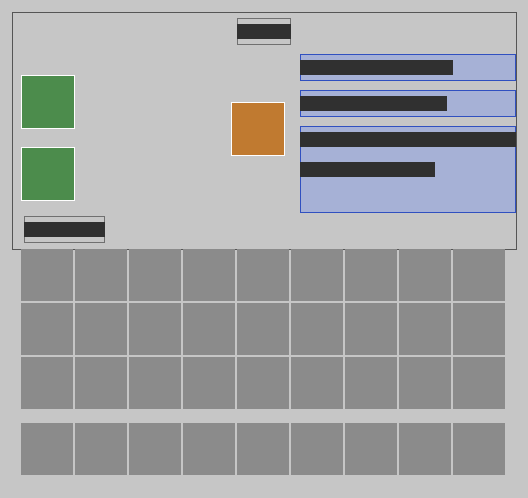
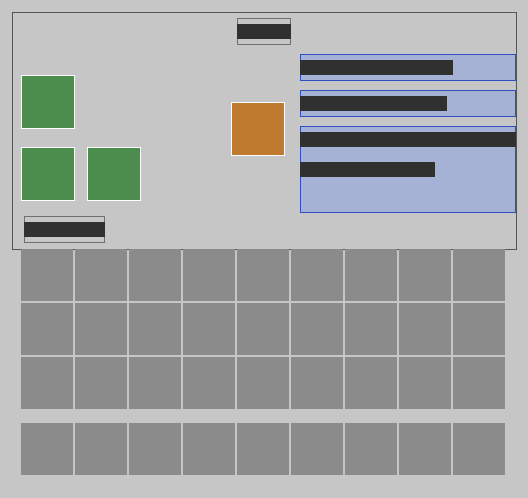
IMP4-01 S-009 [1-65]: high-speed steel, option A (C agreed) - HSS charge (crucible + 2 steel + W powder + Cr) melts in the crucible furnace to 2 HSS tool bits; the lathe gets a cutter slot (SLOT_CUTTER, existing slots unchanged) and runs 0.7x the time with HSS; GameTest high_speed_steel, CHEMISTRY M

Changed region(s): [[0.1515, 0.2711, 0.2727, 0.4217]]

diff --git a/src/main/java/com/taku3/semiconductorlab/block/LatheBlockEntity.java b/src/main/java/com/taku3/semiconductorlab/block/LatheBlockEntity.java
@@ -27,7 +27,9 @@ public class LatheBlockEntity extends ConsumerBlockEntity {
     public static final int TICKS = 20 * 30;
     /** 旋盤のくせ（寸法の誤差）の幅 µm。⚠ ゲームの値（1850年ごろの工作機械で 0.01〜0.03mm のめやす） */
     public static final int ERROR_UM = 25;
-    public static final int SLOT_IN = 0, SLOT_TOOL = 1, SLOT_OUT = 2, SLOT_COUNT = 3;
+    /** SLOT_CUTTER（IMP4-01 [1-65]、C の同意あり）：ハイスの刃を入れると削る時間が {@link #HSS_FACTOR} 倍（1900 テイラーとホワイト：赤く熱くなっても刃がなまらない ⚠ 速さはゲームの値）。刃は減らない */
+    public static final int SLOT_IN = 0, SLOT_TOOL = 1, SLOT_OUT = 2, SLOT_CUTTER = 3, SLOT_COUNT = 4;
+    public static final double HSS_FACTOR = 0.7;
 
     /** この旋盤のくせ（µm）。Integer.MIN_VALUE＝まだ決まっていない */
     private int errorUm = Integer.MIN_VALUE;
@@ -36,6 +38,7 @@ public class LatheBlockEntity extends ConsumerBlockEntity {
             .in(SLOT_IN, 8, 26, LatheBlockEntity::isInput)
             .in(SLOT_TOOL, 8, 50, LatheBlockEntity::isMasterScrew)
             .out(SLOT_OUT, 78, 35)
+            .in(SLOT_CUTTER, 30, 50, s -> s.is(com.taku3.semiconductorlab.content.Metallurgy.HSS_TOOL_BIT))
             .text("power", 100, 18, 72, 1, "gui.semiconductor-lab.machine.power").samples("0.8 kW")
             .text("stored", 100, 30, 72, 1, "gui.semiconductor-lab.machine.stored").samples("20 kJ")
             .text("hint", 100, 42, 72, 3, "gui.semiconductor-lab.machine.need_input", "gui.semiconductor-lab.machine.need_power", "gui.semiconductor-lab.machine.running")
@@ -82,7 +85,9 @@ public class LatheBlockEntity extends ConsumerBlockEntity {
     @Override protected double workWatts() { return WATTS; }
     /** [8-08] ボールねじの送りは摩擦が小さい（玉軸受の倍率にさらに掛ける） */
     @Override protected double drawWatts() { return super.drawWatts() * com.taku3.semiconductorlab.item.BallScrewItem.powerFactor(container.getItem(SLOT_TOOL)); }
-    @Override protected int workTicks() { return TICKS; }
+    @Override protected int workTicks() { return hasHss(container.getItem(SLOT_CUTTER)) ? (int) Math.round(TICKS * HSS_FACTOR) : TICKS; }
+    /** ハイスの刃か（[1-65]） */
+    public static boolean hasHss(ItemStack s) { return s.is(com.taku3.semiconductorlab.content.Metallurgy.HSS_TOOL_BIT); }
     @Override protected boolean canWork() {
         ItemStack out = made();
         return !out.isEmpty() && canMerge(container.getItem(SLOT_OUT), out);

diff --git a/src/gametest/java/com/taku3/semiconductorlab/gametest/MetallurgyTests.java b/src/gametest/java/com/taku3/semiconductorlab/gametest/MetallurgyTests.java
@@ -1124,6 +1124,21 @@ public class MetallurgyTests extends LabTestBase {
         h.succeed();
     }
 
+    /** [1-65] ハイス（IMP4-01、S-009 案A、旋盤は C の同意あり）：仕込み → るつぼ炉 → 刃2。旋盤に刃を入れると時間 0.7倍、無ければ今のまま */
+    @GameTest
+    public void highSpeedSteel(GameTestHelper h) {
+        h.assertTrue(com.taku3.semiconductorlab.block.CrucibleFurnaceBlockEntity.melted(new ItemStack(Metallurgy.HSS_CHARGE)).is(Metallurgy.HSS_TOOL_BIT), "crucible furnace makes HSS");
+        h.assertTrue(recipeUses(h, "hss_charge", Metallurgy.TUNGSTEN_POWDER) && recipeUses(h, "hss_charge", Metallurgy.CHROMIUM), "W + Cr steel");
+        BlockPos lp = p(1, 1, 1);
+        h.setBlock(lp, com.taku3.semiconductorlab.content.Precision.LATHE.block);
+        var lathe = h.getBlockEntity(lp, com.taku3.semiconductorlab.block.LatheBlockEntity.class);
+        h.assertFalse(com.taku3.semiconductorlab.block.LatheBlockEntity.hasHss(lathe.getContainer().getItem(com.taku3.semiconductorlab.block.LatheBlockEntity.SLOT_CUTTER)), "no cutter: as before");
+        lathe.getContainer().setItem(com.taku3.semiconductorlab.block.LatheBlockEntity.SLOT_CUTTER, new ItemStack(Metallurgy.HSS_TOOL_BIT));
+        h.assertTrue(com.taku3.semiconductorlab.block.LatheBlockEntity.hasHss(lathe.getContainer().getItem(com.taku3.semiconductorlab.block.LatheBlockEntity.SLOT_CUTTER)), "HSS fitted");
+        h.assertTrue(Math.round(com.taku3.semiconductorlab.block.LatheBlockEntity.TICKS * com.taku3.semiconductorlab.block.LatheBlockEntity.HSS_FACTOR) < com.taku3.semiconductorlab.block.LatheBlockEntity.TICKS, "faster with HSS");
+        h.succeed();
+    }
+
     static void machineRecipes(com.google.gson.JsonArray a) {
         // [1-39] マグネシウムの電解槽（IMP3、O-028 で書き出しに足した）
         rec(a, Metallurgy.MAGNESIUM_CELL.block, "マグネシウム", L(io(Metallurgy.ANHYDROUS_MAGNESIUM_CHLORIDE, 1)), L(io(Metallurgy.MAGNESIUM, 1), mol(Gas.CHLORINE_GAS, 1)),

diff --git a/src/main/java/com/taku3/semiconductorlab/block/CrucibleFurnaceBlockEntity.java b/src/main/java/com/taku3/semiconductorlab/block/CrucibleFurnaceBlockEntity.java
@@ -66,7 +66,7 @@ public class CrucibleFurnaceBlockEntity extends BlockEntity implements MachineBE
     public int temperature() { return temp; }
 
     /** るつぼの仕込み（鍛鉄＋木炭入り）かフリントガラスの調合 */
-    public static boolean isCharge(ItemStack s) { return s.is(Metallurgy.CRUCIBLE_CHARGE) || s.is(Optics.FLINT_GLASS_BATCH); }
+    public static boolean isCharge(ItemStack s) { return s.is(Metallurgy.CRUCIBLE_CHARGE) || s.is(Optics.FLINT_GLASS_BATCH) || s.is(Metallurgy.HSS_CHARGE); }
     /** コークス（1700年代のハンツマンもコークスの火） */
     public static boolean isFuel(ItemStack s) { return s.is(Metallurgy.COKE); }
 
@@ -74,6 +74,7 @@ public class CrucibleFurnaceBlockEntity extends BlockEntity implements MachineBE
     public static ItemStack melted(ItemStack in) {
         if (in.is(Metallurgy.CRUCIBLE_CHARGE)) return new ItemStack(Metallurgy.CRUCIBLE_STEEL, 2);
         if (in.is(Optics.FLINT_GLASS_BATCH)) return new ItemStack(Optics.FLINT_GLASS);
+        if (in.is(Metallurgy.HSS_CHARGE)) return new ItemStack(Metallurgy.HSS_TOOL_BIT, 2);   // [1-65] ハイス（W・Cr 入りの鋼）
         return ItemStack.EMPTY;
     }
 

diff --git a/src/main/java/com/taku3/semiconductorlab/content/Metallurgy.java b/src/main/java/com/taku3/semiconductorlab/content/Metallurgy.java
@@ -27,6 +27,9 @@ public final class Metallurgy {
     private Metallurgy() {}
 
     // ===== アイテム =====
+    // [1-65] 高速度鋼（ハイス）（IMP4-01、S-009）
+    public static final Item HSS_CHARGE            = Reg.item("hss_charge");
+    public static final Item HSS_TOOL_BIT          = Reg.item("hss_tool_bit", new Item.Properties().stacksTo(1));
     // [1-54] インバー（温度で伸び縮みしない合金）（IMP4-01、S-009）
     public static final Item INVAR                 = Reg.item("invar", p -> new com.taku3.semiconductorlab.item.ThermalExpansionItem(p, 1.2e-6, "invar"), new Item.Properties());
     // [1-13] 亜鉛（蒸留法：蒸留のかめ）（IMP4-01、S-009）

diff --git a/docs/TECH_TREE.md b/docs/TECH_TREE.md
@@ -280,7 +280,7 @@ graph LR
 ### [1-62] ステンレス鋼 ✅  ／ **実装（2026-10 IMP3、O-029、仮決定 Q3-23）**: 鋼6＋クロム2＋ニッケル → stainless_charge 9 → 電気炉 → stainless_steel（18-8）。実験：鋼＋塩＋水 → rusted_steel、ステンレスはさびない（レシピなし）。C の EUV の真空の囲い・超純水の配管の材料。CHEMISTRY SS1、C80 ／ テスト: stainless_steel ／  年: 1913（1904〜1913） ／ 前提: [1-40]クロム, [1-37]ニッケル, [1-26]鋼 ／ 本物: 鉄にクロムを約12%以上混ぜると、表面にとても薄いクロムの酸化物の膜ができて、さびなくなる。1904〜06年にフランスのレオン・ギエが鉄とクロムの合金を研究し、1911年にドイツのモンナルツがクロム約12%以上でさびにくくなることを示した。1912年、ドイツのクルップ社のシュトラウスとマウラーがニッケルも入れた「18-8」（磁石につかない・粘り強い）の特許を取り、1913年にイギリスのハリー・ブレアリーが13% クロムの鋼を「さびない鋼」として作った。台所の流し・食器、超高真空の容器、超純水の配管に使われる。安くて強い鋼の板に、さびにくい金属（ニッケルやステンレス）のうすい板をはがれないように重ねた2層の板をクラッド鋼という。全部を高い金属で作らなくても、薬品にふれる面だけを守れる。1930年にアメリカでニッケルをはり合わせた鋼板が作られ、1950年代から広まった ⚠（世界で最初かどうかは確かめられない。S-019 で追加。出典：Industeel（ArcelorMittal）「The history of plated sheets」 https://industeel.arcelormittal.com/the-history-of-plated-sheets/ 、亜留間次郎さん（Arumaddilo）が作った Wikipedia 日本語版「クラッド鋼」 https://ja.wikipedia.org/wiki/%E3%82%AF%E3%83%A9%E3%83%83%E3%83%89%E9%8B%BC ） ／ へえ①: ステンレスがさびないのは、表面に目に見えないほど薄いクロムの膜ができて守っているから（O-012 で追加。出典：Wikipedia「Stainless steel」「Harry Brearley」、Sheffield City Archives「Sources for the Study of Harry Brearley and Stainless Steel」（https://www.sheffield.gov.uk/sites/default/files/docs/libraries-and-archives/archives-and-local-studies/research/Stainless-Steel-and-Harry-Brearley-v-1-1--PDF--578-KB-.pdf ））
 ### [1-63] マンガン添加（スピーゲル）とハドフィールド鋼 ❓  年: 1856（1856〜1882） ／ 前提: [1-26]鋼 ／ 本物: ベッセマー転炉の鋼は、溶けた酸素や硫黄のせいで熱いときに割れやすかった。1856年、イギリスのロバート・マシェットが、マンガンを含む銑鉄（スピーゲル）を最後に加えると、マンガンが酸素と硫黄を取りのぞいて割れなくなることを見つけた（マシェットは特許の更新料を払えず報酬を得られず、のちにベッセマーが年金を出した）。1857年にはマシェットの鋼でレールが作られた。1882年、ロバート・ハドフィールドがマンガンを約12% 入れた、たたかれるほど硬くなる鋼（ハドフィールド鋼）を作った ／ MC: 未定（実装の前に相談） ／ へえ①: ほんの少しのマンガンを加えるだけで、割れやすかった鋼が丈夫になった（O-012 で追加。出典：Wikipedia「Robert Forester Mushet」「Mangalloy」、Grace's Guide 'Robert Mushet'（https://www.gracesguide.co.uk/Robert_Mushet））
 ### [1-64] 金の製錬（アマルガム法・青化法） ✅⚠（解説だけ）  遊び方: なし（解説） ／ **実装（2026-10 IMP4-01、S-010 ユーザーの決定「おすすめで」）**: 水銀のアマルガム法・青化法（シアン化物）は毒なので DESIGN「危ない技術」に合わせて作り方は入れない。バニラの金の原石に解説（item.minecraft.raw_gold.note1〜4・placeholder：歴史と公害を正直に）。金はかまどで焼くバニラの道のまま。REFERENCES F73 ／ テスト: gold_explanation_only ／ 元の記述→  年: 1887（1554〜1887） ／ 前提: [1-45]水銀 ／ 本物: 岩の中のわずかな金を取り出す方法。1554年ごろ（1554〜57年と資料で揺れる ⚠）、メキシコのパチューカでバルトロメ・デ・メディナが、くだいた銀の鉱石に塩や硫酸銅と水銀を混ぜて、銀を水銀に溶かしこむ（アマルガム）パティオ法を広めた（金も水銀で同じように取れる）。1887年、スコットランドのマッカーサーとフォレスト兄弟が、うすいシアン化物の液で金を溶かし出す青化法を作り、少ない金しか含まない鉱石からも取れるようになった。水銀もシアン化物も毒なので、川や土の汚染が問題になり、扱いが厳しく決められている。チップのワイヤーボンディングの金線や、電子部品の接点のめっきに使われる。岩がくずれると、金やすず石のように重くてこわれにくい鉱物が川や海辺に流れ出し、流れがゆるい所で重い粒だけがたまる（漂砂鉱床）。砂金とりで皿をゆらすと金が底に残るのも同じしくみで、クロンダイクの金やマレーシアのすず石が有名（S-019 で追加。出典：Britannica「Placer deposit」 https://www.britannica.com/science/placer-deposit 、亜留間次郎さん（Arumaddilo）が作った Wikipedia 日本語版「漂砂鉱床」 https://ja.wikipedia.org/wiki/%E6%BC%82%E7%A0%82%E9%89%B1%E5%BA%8A ） ／ MC: 未定（実装の前に相談） ／ へえ①: 金の鉱石1トンの中に、金は数グラムしか入っていないことが多い ⚠（O-012 で追加。出典：Wikipedia「MacArthur–Forrest process」「Patio process」、Mining Foundation of the Southwest「Bartolomé de Medina」（https://miningfoundationsw.org/Bartolome_de_Medina ））
-### [1-65] 高速度鋼（ハイス） ❓  年: 1900（1868〜1900） ／ 前提: [1-40]クロム, [1-26]鋼 ／ 本物: タングステン（約18%）やクロム（約4%）を入れて特別な熱処理をした鋼で、刃先が赤く熱くなっても硬さを失わず、速く削れる。1868年にロバート・マシェットがタングステン入りの「自硬鋼」を作り、1898〜1900年にアメリカのフレデリック・テイラーとマンセル・ホワイトが高い温度での熱処理を見つけて、1900年のパリ万博で赤く熱した刃で削り続けるのを見せた。旋盤で削る速さが数倍になり、工作機械が作り直された。1930年代にはタングステンの代わりにモリブデンを使うハイスもできた ／ MC: 未定（実装の前に相談） ／ へえ①: ハイスの刃は、赤く光るほど熱くなっても切れ味が落ちない（O-012 で追加。出典：Wikipedia「High-speed steel」「Robert Forester Mushet」、Knife Steel Nerds「The History of the First Tool Steel」・West Yorkshire Steel「A History of High Speed Steel」（https://knifesteelnerds.com/2018/03/22/the-history-of-the-first-tool-steel/））
+### [1-65] 高速度鋼（ハイス） ✅⚠  遊び方: 軽（旋盤が速くなる） ／ **実装（2026-10 IMP4-01、S-009 案A 仮決定、旋盤は C の同意あり）**: ハイスの仕込み hss_charge（作業台：耐火粘土のるつぼ＋鋼2＋W 粉＋クロム）→ るつぼ炉 [3-07] → ハイスの刃 hss_tool_bit ×2。旋盤 [8-01] の刃の口（LatheBlockEntity.SLOT_CUTTER）に入れると削る時間 0.7倍 ⚠、刃は減らない。無ければ今のまま。CHEMISTRY M-HSS1、REFERENCES F74 ／ テスト: high_speed_steel ／ ID: hss_charge, hss_tool_bit ／ 元の記述→  年: 1900（1868〜1900） ／ 前提: [1-40]クロム, [1-26]鋼 ／ 本物: タングステン（約18%）やクロム（約4%）を入れて特別な熱処理をした鋼で、刃先が赤く熱くなっても硬さを失わず、速く削れる。1868年にロバート・マシェットがタングステン入りの「自硬鋼」を作り、1898〜1900年にアメリカのフレデリック・テイラーとマンセル・ホワイトが高い温度での熱処理を見つけて、1900年のパリ万博で赤く熱した刃で削り続けるのを見せた。旋盤で削る速さが数倍になり、工作機械が作り直された。1930年代にはタングステンの代わりにモリブデンを使うハイスもできた ／ MC: 未定（実装の前に相談） ／ へえ①: ハイスの刃は、赤く光るほど熱くなっても切れ味が落ちない（O-012 で追加。出典：Wikipedia「High-speed steel」「Robert Forester Mushet」、Knife Steel Nerds「The History of the First Tool Steel」・West Yorkshire Steel「A History of High Speed Steel」（https://knifesteelnerds.com/2018/03/22/the-history-of-the-first-tool-steel/））
 ### [1-66] タンタル（延性タンタルとバリア膜） ✅⚠  遊び方: 重 ／ **実装（2026-10 IMP4-01、S-003 案A：ユーザーの決定「おすすめで」）**: 新鉱石 tantalite_ore（花崗岩ペグマタイト、リチア輝石よりまれ、ModWorldGen.RULES）→ タンタル石。前提に金属ナトリウム（カストナーの電解槽 castner_cell：NaOH 4＋空の鉄の容器 → ナトリウム、1886）。タンタルの精製槽 tantalum_refinery：タンタル石＋フッ酸2（鉛・PE）＋KF → K2TaF7（1866 マリニャック、ニオブは液に残る＝捨てる）、K2TaF7＋ナトリウム → タンタル（1903 フォン・ボルトン）。容器は戻る。⚠ 真空溶解・ニオブは省略。CHEMISTRY F62〜F64、REFERENCES F38 ／ テスト: ore_tantalite, tantalum, ore_biome_rules ／ ID: tantalite_ore, tantalite, sodium, potassium_fluorotantalate, tantalum, castner_cell, tantalum_refinery ／ 元の記述→ 前提: なし ／ 本物: とても融点が高く（約3000℃）さびにくい金属。1802年、スウェーデンのアンデシュ・エーケベリが見つけた。1903年、ドイツのジーメンス・ハルスケ社のヴェルナー・フォン・ボルトンが延ばせる純粋なタンタルを作り、1905年にタンタルのフィラメントの電球が売られた（炭素→タンタル→タングステンと電球の線が進んだ）。今はチップの銅配線（[9-36]）で、銅がシリコンへしみこむのを止める薄い膜（Ta・TaN）や、小さなコンデンサーに使われる ／ MC: 未定（実装の前に相談） ／ へえ①: 電球の線は、炭素→タンタル→タングステンと、熱に強い物へ代わっていった（O-012 で追加。出典：Wikipedia「Tantalum」「Werner von Bolton」、Deutsche Biographie 'Bolton, Werner'（https://www.deutsche-biographie.de/sfz5200.html））
 ### [1-67] 浮遊選鉱（浮選） ❓  年: 1905（1877〜1905） ／ 前提: なし ／ 本物: 細かくくだいた鉱石を水に入れ、油や薬を加えて泡を立てると、金属の硫化物の粒は泡にくっついて浮かび、いらない岩の粒は沈む。1877年にドイツのベッセル兄弟が黒鉛で、1898年にイギリスのフランシス・エルモアが油を使う方法を始め、1905年にミネラルズ・セパレーション社がオーストラリアのブロークンヒルで泡を使う浮選を実用にした。銅が1% もない鉱石からでも精鉱が作れるようになり、閃亜鉛鉱と方鉛鉱を分けたり、輝水鉛鉱を集めたりするのにも使う ／ MC: 未定（実装の前に相談） ／ へえ①: 鉱石の中の金属の粒は、泡にくっついて浮かび上がる（O-012 で追加。出典：Wikipedia「Froth flotation」、Fuerstenau, Jameson, Yoon 編『Froth Flotation: A Century of Innovation』（SME, 2007））
 ### [1-68] 永久磁石鋼（KS鋼・MK鋼） ❓  年: 1917（1916〜1934） ⚠ ／ 前提: [1-37]ニッケル, [1-26]鋼 ／ 本物: それまでの磁石の鋼よりずっと強く、長く磁力を保つ鋼。1917年、東北帝国大学の本多光太郎と高木弘が、コバルト・タングステン・クロムを入れた KS 鋼を作った（1916年とする資料もある ⚠）。1931年、東京帝国大学の三島徳七が、鉄・ニッケル・アルミニウムの MK 鋼を作り、のちのアルニコ磁石のもとになった（日本の十大発明家）。1934年には新 KS 鋼もできた。天然磁石よりずっと強い人工の磁石は、スピーカー・発電機・計器に使われ、のちのネオジム磁石（[1-35]）へ続く ／ MC: 未定（実装の前に相談） ／ へえ①: 日本の研究者が作った磁石の鋼は、当時世界でいちばん強い磁石だった（O-012 で追加。出典：Wikipedia「Kotaro Honda」、コトバンク「MK鋼」、特許庁「日本の十大発明家 三島徳七」）

diff --git a/docs/REFERENCES.md b/docs/REFERENCES.md
@@ -1489,6 +1489,20 @@
 
 ---
 
+## F74. 赤く熱くなっても切れる刃（高速度鋼）［1-65］
+**答え**：ふつうの鋼の刃は、速く削ると摩擦の熱で赤くなってなまる。1900年、アメリカのフレデリック・テイラーとマンセル・ホワイトが、タングステンとクロムの入った鋼をとても高い温度から焼き入れると、約600℃ になっても硬いままの刃になることを見つけた（高速度鋼、ハイス）。パリ万博で真っ赤になっても削り続ける刃を見せ、工場の削る速さが数倍になった。
+
+- へえ①：名前の「高速度」は、速く削れることから。
+- へえ②：テイラーは、仕事の時間を測って工場を効率よくする「科学的管理法」でも知られる。
+- へえ③：今もドリルの刃・タップなどに使われる。もっと硬い刃は超硬合金（タングステンの炭化物）。
+- へえ④：同じタングステンは、電球のフィラメントにも使われる「熱に強い」金属。
+
+確かさ：テイラーとホワイト 1900 ◎／成分 18-4-1 ○／ゲームの 0.7倍 △（ゲームの値）
+ゲーム（2026-10-26 IMP4-01 で実装）：ハイスの刃（旋盤の刃の口で 0.7倍）
+根拠：Wikipedia「High-speed steel」https://en.wikipedia.org/wiki/High-speed_steel （英語）
+
+---
+
 # 電気（v0.2a）
 
 ---

diff --git a/docs/tasks/HOWTO_GAPS.md b/docs/tasks/HOWTO_GAPS.md
@@ -1,12 +1,14 @@
 # わかりやすさの穴（自動生成：python tools/check_howto.py、S-026。手で直さない）
 
 - ①入手の道が無いアイテム：**0** / 951
+- ①入手の道が無いアイテム：**1** / 946
 - ②「?」の説明が無い機械（画面のある機械のうち、手書きの lang block.semiconductor-lab.<id>.howto も、自動のレシピの一覧＝machine_recipes も無い物）：**0** / 108
 - ③見取り図の無いマルチブロック：**0**
 
 道の数え方：作業台・かまどのレシピ、機械・組立台のレシピ（docs/machine_recipes.json）、世界に生える鉱石とそのルート、ルートの書き換え（LootTableEvents）、例外の一覧（tools/check_howto.py の HOWTO_EXTRA）。ここに無いのに手に入る物は、HOWTO_EXTRA に理由を書いて足すか、machine_recipes の書き出しに足す
 
 ## ① 入手の道が無いアイテム（作った担当ごと：アイテムの JSON を最初に足した commit の頭 IMP2＝C・IMP3＝D・IMP4＝E・ほか＝A）
+- **D**（1）：hss_tool_bit（Metallurgy）
 
 ## ② 「?」の説明が無い機械（作った担当ごと）
 

diff --git a/docs/CHEMISTRY.md b/docs/CHEMISTRY.md
@@ -464,6 +464,9 @@
 ## [1-54] インバー（IMP4 S-009）
 | M-Inv1 | 鉄2＋ニッケル → インバー3 | Fe-36Ni 合金。強磁性の体積の変化（磁気体積効果）が熱膨張を打ち消し、室温付近の線膨張係数 約 1.2×10⁻⁶/K（鋼の約10分の1）（1896 ギヨーム） | ⚠ 省略：割合は作業台の数でおおよそ。溶かす工程は作業台にまとめた |
 
+## [1-65] 高速度鋼（IMP4 S-009）
+| M-HSS1 | 耐火粘土のるつぼ＋鋼2＋W 粉＋クロム → ハイスの仕込み →るつぼ炉→ ハイスの刃2 | W 約18%・Cr 約4%・V 約1% の鋼（18-4-1）。約1250℃ からの焼入れで炭化物が残り、約600℃ でも硬さを保つ（1900 テイラーとホワイト） | ⚠ 省略：バナジウム・焼入れの工程は省略、割合は作業台の数でおおよそ |
+
 ## [2-03] 天然ソーダ（タスク08）
 | # | レシピ・挙動 | 本物 | 判定 |
 |---|---|---|---|

diff --git a/docs/IMPL4_LOG.md b/docs/IMPL4_LOG.md
@@ -235,3 +235,4 @@ CHEMISTRY の行番号は F1〜（docs/chemistry/<幹>.md）。REFERENCES は第
   - [1-73] めっき鋼板：案A（おすすめ）鉄板＋亜鉛（溶かした亜鉛にくぐらせる）→ トタン、鉄板＋錫 → ブリキ。雨に当てるとさびの進み方がちがう実験（鉄だけはさびる、トタンは亜鉛が先にさびる）／案B 材料だけ
 - ✅ S-009 [1-54] インバー（invar、右クリックで 1m・100℃ の伸びを鋼とくらべる）。GameTest invar、REFERENCES F72
 - ✅ S-010 [1-64] 金の製錬＝解説だけ（バニラの金の原石に解説、毒の作り方は入れない）。GameTest gold_explanation_only、REFERENCES F73
+- ✅ S-009 [1-65] ハイス＝案A（hss_charge → るつぼ炉 → hss_tool_bit、旋盤の SLOT_CUTTER で 0.7倍 ⚠、C の同意あり）。GameTest high_speed_steel、REFERENCES F74

diff --git a/docs/chemistry/1_metallurgy.md b/docs/chemistry/1_metallurgy.md
@@ -264,3 +264,6 @@
 
 ## [1-54] インバー（IMP4 S-009）
 | M-Inv1 | 鉄2＋ニッケル → インバー3 | Fe-36Ni 合金。強磁性の体積の変化（磁気体積効果）が熱膨張を打ち消し、室温付近の線膨張係数 約 1.2×10⁻⁶/K（鋼の約10分の1）（1896 ギヨーム） | ⚠ 省略：割合は作業台の数でおおよそ。溶かす工程は作業台にまとめた |
+
+## [1-65] 高速度鋼（IMP4 S-009）
+| M-HSS1 | 耐火粘土のるつぼ＋鋼2＋W 粉＋クロム → ハイスの仕込み →るつぼ炉→ ハイスの刃2 | W 約18%・Cr 約4%・V 約1% の鋼（18-4-1）。約1250℃ からの焼入れで炭化物が残り、約600℃ でも硬さを保つ（1900 テイラーとホワイト） | ⚠ 省略：バナジウム・焼入れの工程は省略、割合は作業台の数でおおよそ |
